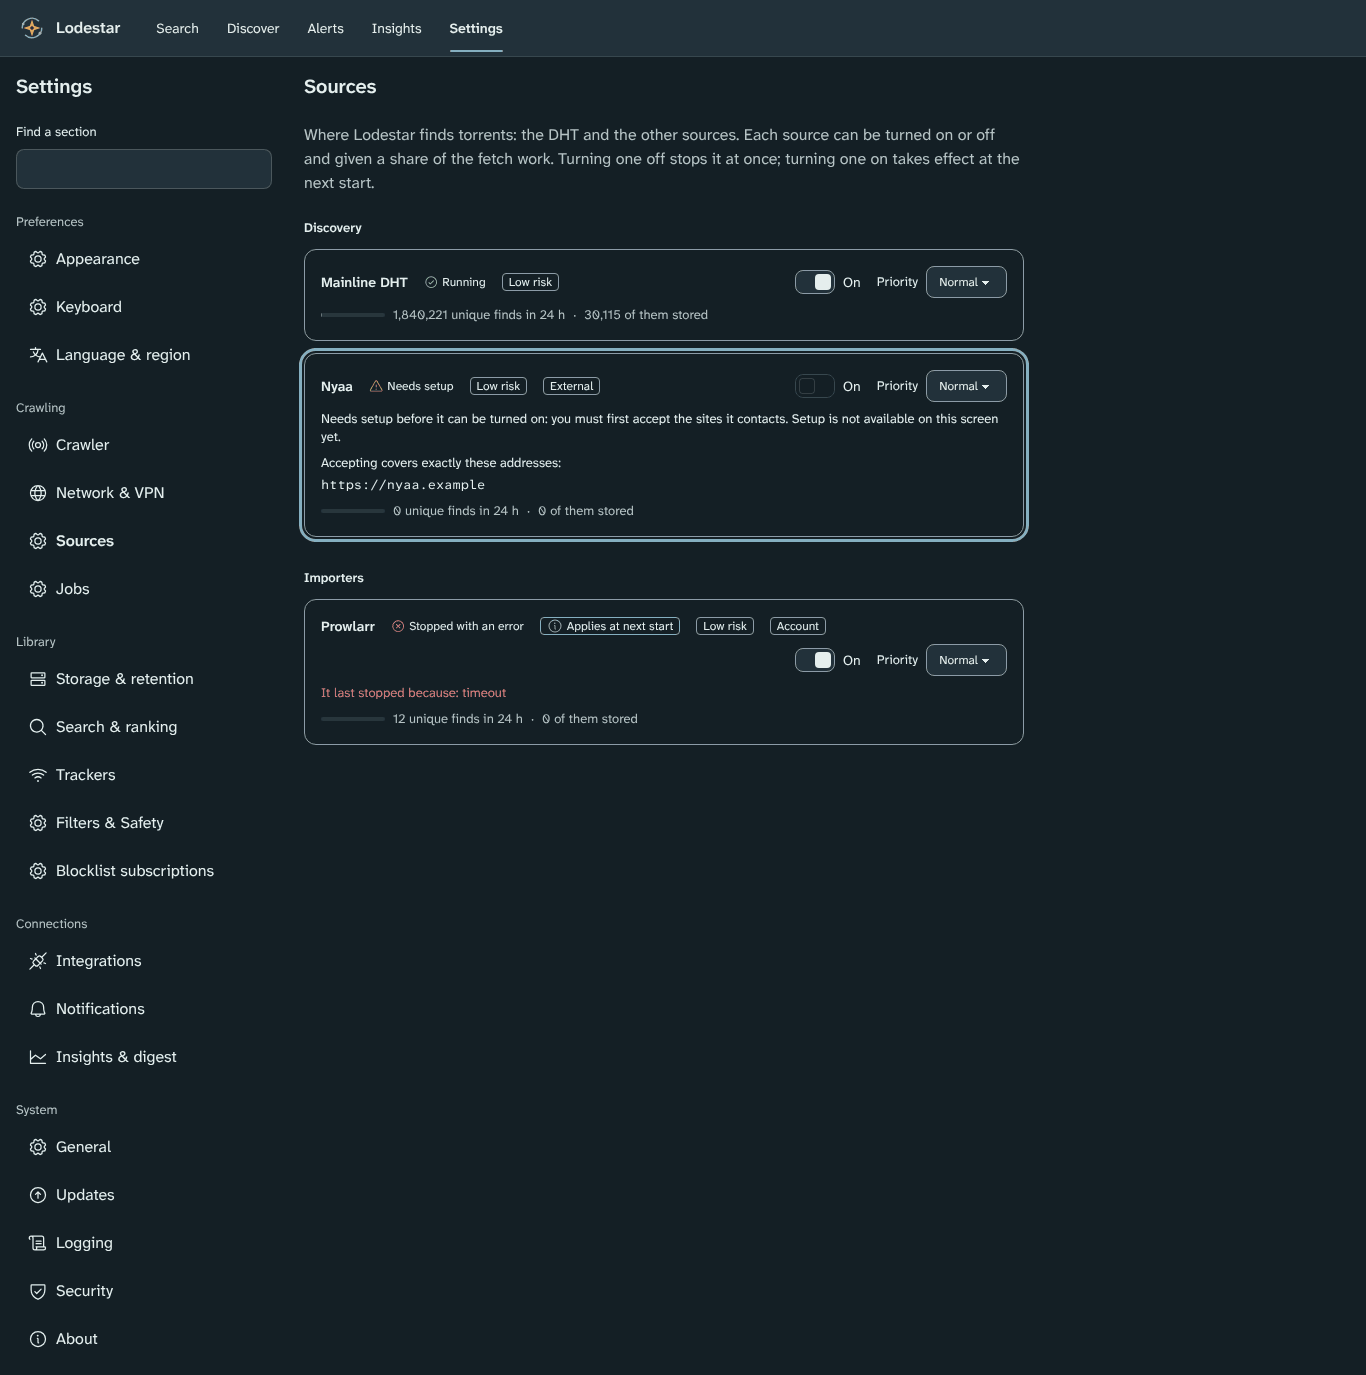
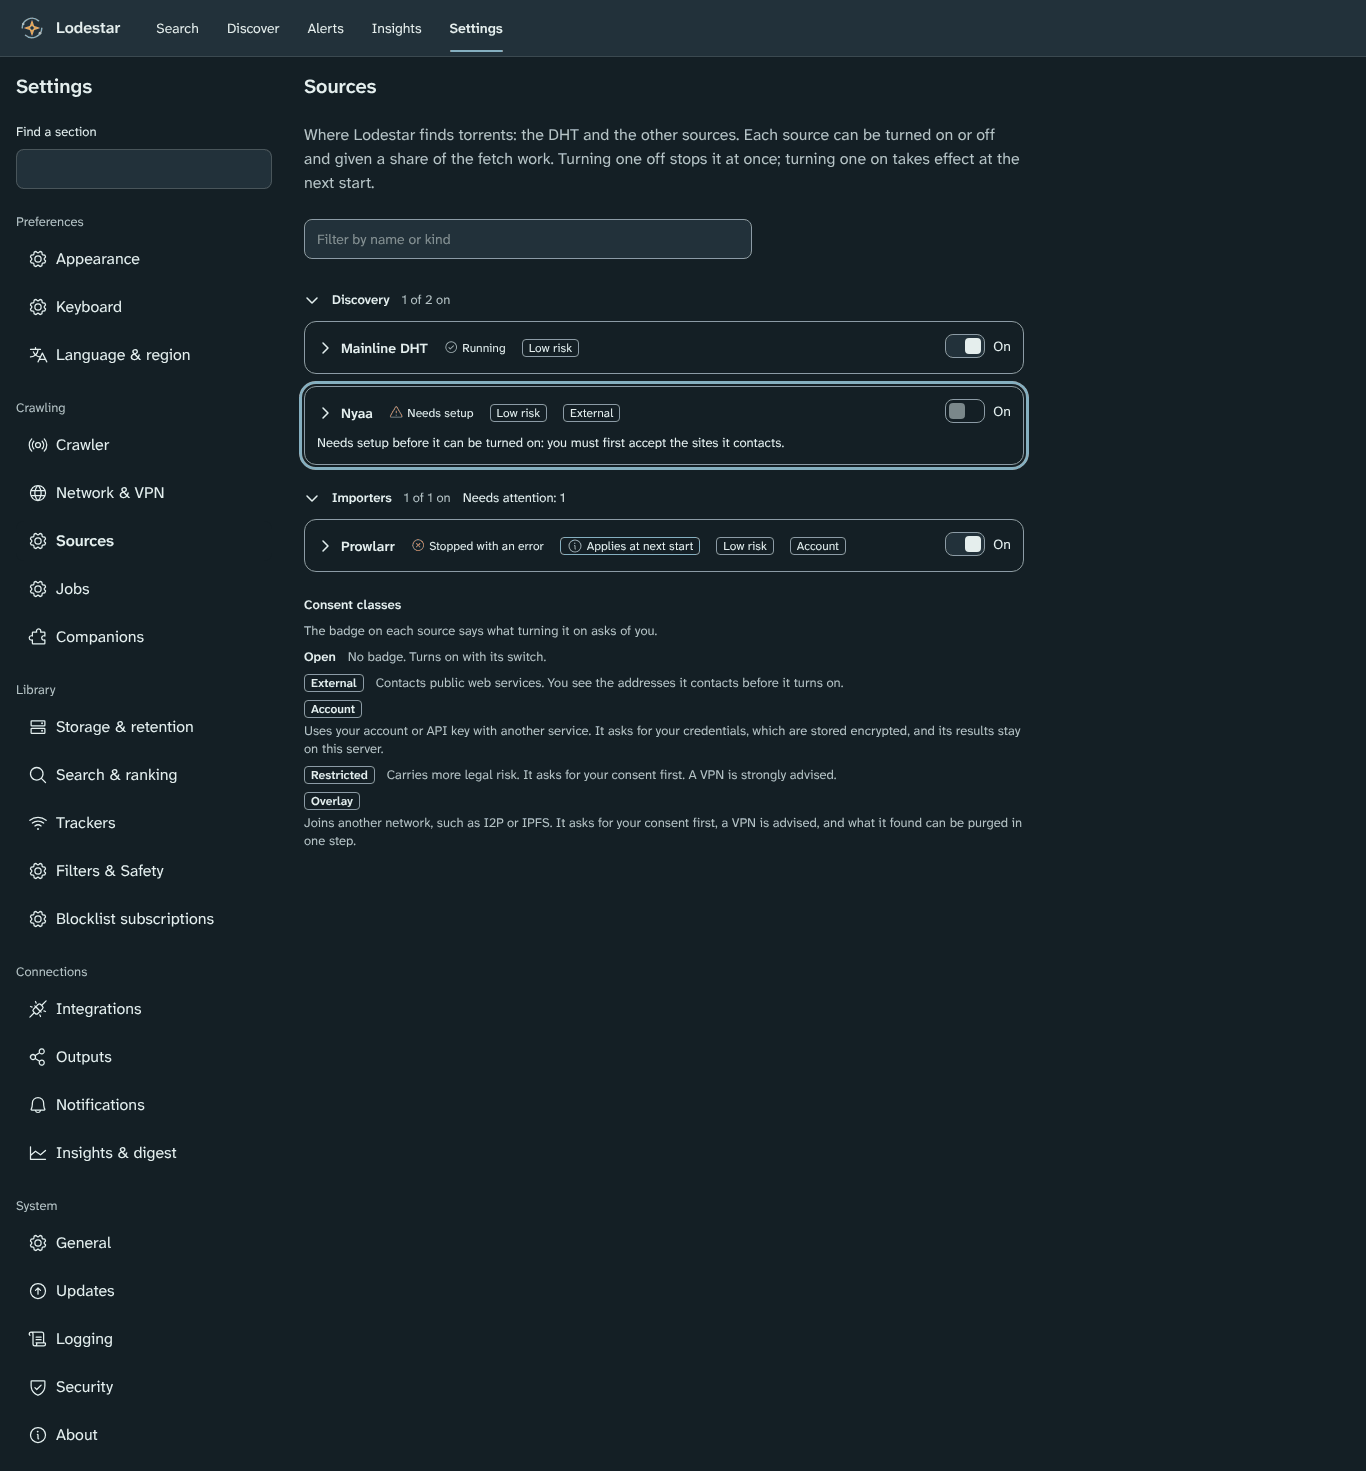
Tidy Sources after #816: comments, plural, tests, screenshot
Follow-up to the #816 review (rv-816 O1-O4): the decisions file names
its PR and records the Account setup note change, the split header
comments read as sentences again, "Showing 1 of 1 source" is singular,
a keyboard test checks that Enter and Space on a row's name leave its
switch alone, and the Account-password test covers Overlay. The user
guide's Sources screenshots show the new layout.

Claude-Session: https://claude.ai/code/session_01MMjhnCEzeKKeEySq9nj8Be

diff --git a/web/src/lib/features/sources/SourceRow.svelte b/web/src/lib/features/sources/SourceRow.svelte
@@ -1,12 +1,13 @@
 <script lang="ts">
-	// One source (§18.8), as one line that expands (X-sources-restructure, owner §2.66): the line
-	// has the name (the expand button), status, risk and consent class and the enable toggle, with
-	// the setup note and the companion chip under it when they apply (they say why the switch opens
-	// a dialog, or what the source waits for); the detail has priority, addresses, last error, the
-	// 24 h yield, Settings and Purge. The detail
-	// stays in the page while closed (`hidden`). Turning on a source that needs consent, a password or (Account) credentials opens its
-	// dialog, which sends the enable; the server's gate (§18.7) stays the only judge. While a change is in flight the controls stay focusable (a
-	// disabled control would drop the keyboard user's place) and simply ignore input.
+	// One source (§18.8), as one line that expands (X-sources-restructure, owner §2.66). The line has
+	// the name (the expand button), status, risk and consent class and the enable toggle, with the
+	// setup note and the companion chip under it when they apply: they say why the switch opens a
+	// dialog, or what the source waits for. The detail has priority, addresses, last error, the
+	// 24 h yield, Settings and Purge, and stays in the page while closed (`hidden`).
+	// Turning on a source that needs consent, a password or (Account) credentials opens its dialog,
+	// which sends the enable; the server's gate (§18.7) stays the only judge. While a change is in
+	// flight the controls stay focusable (a disabled control would drop the keyboard user's place)
+	// and simply ignore input.
 	import IconCaret from '~icons/ph/caret-right-bold';
 	import { formatCount } from '$lib/format';
 	import { currentLocale } from '$lib/i18n/locale.svelte';

diff --git a/web/src/lib/features/sources/SourcesScreen.svelte b/web/src/lib/features/sources/SourcesScreen.svelte
@@ -1,11 +1,10 @@
 <script lang="ts">
 	// Settings → Sources (§18.8, §10.10): every source plugin of this build, grouped by kind, with its
-	// status, enable toggle, priority and 24 h yield, and the consent and purge dialogs
-	// (X-sources-restructure, owner §2.66: groups collapse behind a summary line, a filter box
-	// narrows the rows by name or kind, rows are one line that expands, and a legend names the
-	// consent classes)
-	// (SRC-15b), loaded on first use. Until a dialog's chunk arrives the screen simply stays as it is. This screen shows the server's last answer and replaces a row
-	// with the PATCH's reply.
+	// status, enable toggle, priority and 24 h yield. Groups collapse behind a summary line, a filter
+	// box narrows the rows by name or kind, each row is one line that expands, and a legend names
+	// the consent classes (X-sources-restructure, owner §2.66). The consent, purge and settings
+	// dialogs (SRC-15b) load on first use; until a dialog's chunk arrives the screen stays as it is.
+	// The screen shows the server's last answer and replaces a row with the PATCH's reply.
 	import { onDestroy, onMount, tick } from 'svelte';
 	import { api, isAbort } from '$lib/api/client';
 	import { m } from '$lib/paraglide/messages.js';
@@ -204,7 +203,11 @@
 					data-testid="sources-filter"
 				/>
 				<p class="text-small text-muted-text" role="status" data-testid="sources-filter-count">
-					{filtering ? m.sources_filter_count({ shown: shownCount, total: sources.length }) : ''}
+					{filtering
+						? sources.length === 1
+							? m.sources_filter_count_one({ shown: shownCount })
+							: m.sources_filter_count({ shown: shownCount, total: sources.length })
+						: ''}
 				</p>
 			</div>
 			{#if shown.length === 0}

diff --git a/web/e2e/settings-sources.keyboard.test.ts b/web/e2e/settings-sources.keyboard.test.ts
@@ -93,4 +93,25 @@ test.describe('keyboard: Settings → Sources', () => {
 		await expect(toggle).not.toBeChecked();
 		expect(sent).toEqual([]);
 	});
+
+	test('Enter and Space on the row name open and close it, and leave its switch alone', async ({
+		page,
+		go,
+		kbd
+	}) => {
+		await go('/settings/sources');
+		const expand = page.getByTestId('source-0-expand');
+		const toggle = page.getByRole('switch', { name: 'Mainline DHT: on' });
+		await expect(toggle).toBeChecked();
+		await kbd.tabTo(expand, 40);
+		await kbd.press('Enter');
+		await expect(expand).toHaveAttribute('aria-expanded', 'true');
+		await expect(page.getByTestId('source-0-detail')).toBeVisible();
+		await kbd.press('Space');
+		await expect(expand).toHaveAttribute('aria-expanded', 'false');
+		await expect(page.getByTestId('source-0-detail')).toBeHidden();
+		await expect(expand).toBeFocused();
+		await expect(toggle).toBeChecked();
+		expect(sent).toEqual([]);
+	});
 });

diff --git a/web/src/lib/features/sources/SourcesScreen.layout.test.ts b/web/src/lib/features/sources/SourcesScreen.layout.test.ts
@@ -131,4 +131,11 @@ describe('Sources layout', () => {
 			expect(terms).toContain(badge);
 		}
 	});
+
+	it('says "source", not "sources", when there is only one', async () => {
+		setup(sourceList(dht));
+		await screen.findByTestId('source-0');
+		await fireEvent.input(filter(), { target: { value: 'dht' } });
+		expect(screen.getByTestId('sources-filter-count').textContent).toBe('Showing 1 of 1 source');
+	});
 });

diff --git a/web/src/lib/features/sources/sources.test.ts b/web/src/lib/features/sources/sources.test.ts
@@ -133,5 +133,6 @@ describe('Account and the password (X-consent-gate-lift r2)', () => {
 		expect(setupNeed({ ...stored, consent: 'restricted', password_required: true })).toBe(
 			'password'
 		);
+		expect(setupNeed({ ...stored, consent: 'overlay', password_required: true })).toBe('password');
 	});
 });

diff --git a/docs/decisions/2026-11-13-X-sources-restructure.md b/docs/decisions/2026-11-13-X-sources-restructure.md
@@ -1,4 +1,4 @@
-# X-sources-restructure decisions
+# X-sources-restructure decisions (#816)
 
 The runner's choices where the owner's Sources decision (`docs/owner-decisions.md` §2.66 item 4; `docs/decisions/2026-11-13-runner-ui-review-decisions.md`, "Settings → Sources") leaves the detail open. None changes a consent dialog or what a switch does (§18.7, §10.10.7).
 
@@ -9,3 +9,4 @@ The runner's choices where the owner's Sources decision (`docs/owner-decisions.m
 - **The setup note and the companion chip stay on the row's line, not in the detail.** The setup note is the switch's description: it says why turning the source on opens a dialog instead. The chip is the one action a source waiting for a companion needs. Why: hiding either would leave the switch's behaviour, or the next step, out of sight until the row is opened. The rest of the detail (priority, addresses, last error, yield, Settings, Purge) opens with the row. It stays in the page while closed, so nothing it describes goes missing.
 - **The legend calls the class with no consent "Open", and it has no badge on the rows.** §18.7 calls it "None". The rows show no badge for it, as before, so the legend says so.
 - **The legend sits below the groups.** It's reference text, so it doesn't push the rows down on a phone.
+- **A disabled Account source whose key is stored shows "Off", with no password note.** Before, once X-consent-gate-lift r2 made `password_required` true for Account, it showed "Needs setup" and "Needs your password to be turned on" (`setupNeed`, `web/src/lib/features/sources/sources.ts`). The password is a separate setup step only for Restricted and Overlay. Why: the Account switch already opens the Account dialog, which asks for what the class needs and shows the gate's refusal while Account is closed, so nothing is lost. The API has no field saying the gate refuses a class, so this can't key off the gate itself. A missing key still shows as a setup step.
